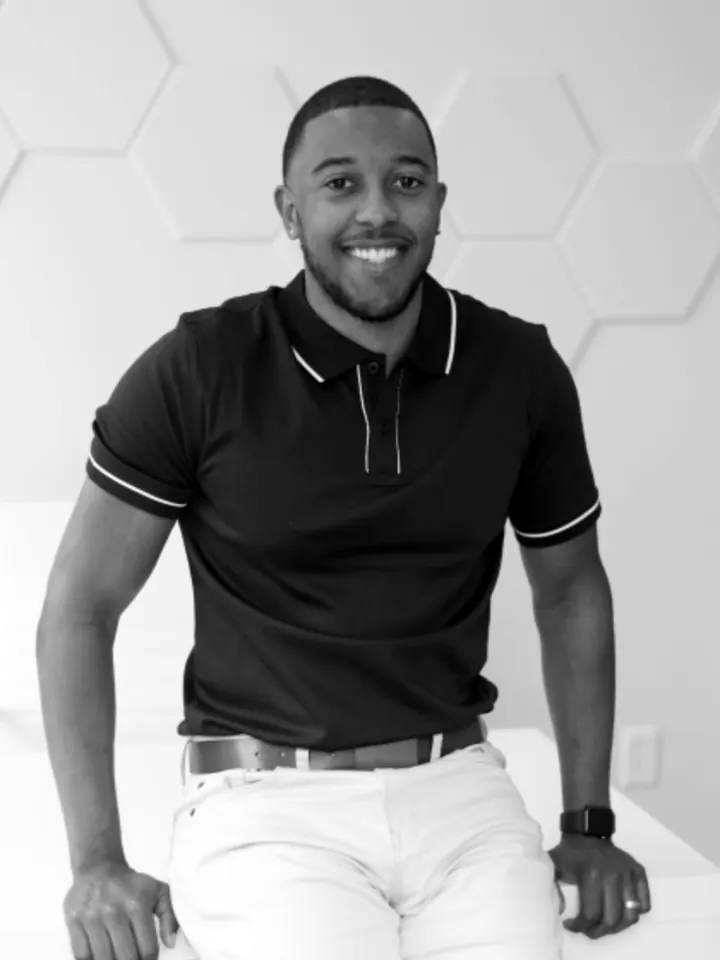
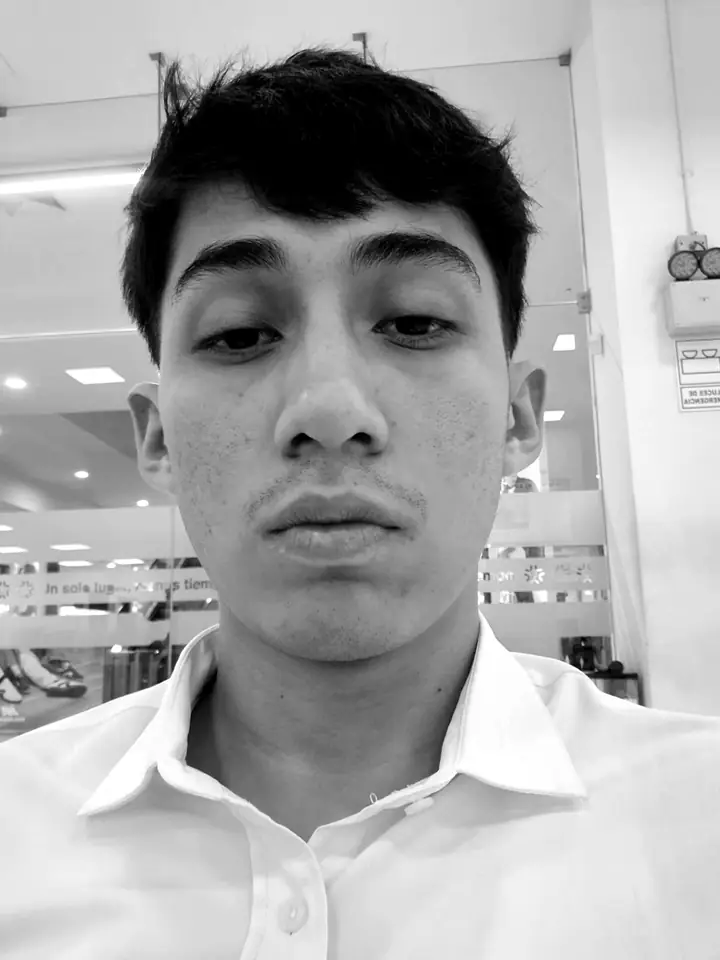
Nosotros movil: la foto real de Benjamin

diff --git a/src/components/movil/nosotros/equipo.ts b/src/components/movil/nosotros/equipo.ts
@@ -8,18 +8,18 @@ import { WHATSAPP, whatsapp } from '../datos';
    Nada inventado: ni años, ni clientes, ni cifras, ni testimonios. Lo que no
    se sabe va en null o vacio y con [CONFIRMAR].
 
-   FOTOS PROVISIONALES [CONFIRMAR]: las de public/assets/movil/nosotros/ son
-   de OTRAS personas (CC0, StockSnap y WordPress Photo Directory), puestas
-   hasta que Harley y Benjamin manden las suyas. No publicar a produccion con
-   estas caras. Autores, por si se quiere dar credito:
+   FOTOS: benjamin*.webp ya es Benjamin (foto que mando Harley el 29/10).
+   PROVISIONALES [CONFIRMAR]: harley*.webp y trabajo.webp son de OTRAS
+   personas (CC0, StockSnap y WordPress Photo Directory), puestas hasta que
+   Harley mande la suya. No publicar a produccion con esas caras. Autores,
+   por si se quiere dar credito:
      · harley*.webp — Jonas Svidras (https://step.camera);
-     · benjamin*.webp — Kristin Hardwick (https://www.kristinhardwick.com);
      · trabajo.webp — Blazej Zablotny (https://blazejzablotny.pl).
    Medidas a respetar al reemplazarlas: 540×720 (retratos del hero, se ven a
    ~132–210 px), 720×960 y ≤ 35 KB (fichas), 240×240 (avatares) y 1200×800
    (trabajo). Todas en B/N, en webp (cwebp -q 70 -m 6, desde el original). */
 
-// [CONFIRMAR] pasar a false cuando esten las fotos reales: mientras sea true,
+// [CONFIRMAR] pasar a false cuando este la foto real de Harley: mientras sea true,
 // /nosotros va con noindex (no indexar caras de otras personas con estos nombres)
 export const FOTOS_PROVISIONALES = true;
 

diff --git a/src/components/movil/nosotros/nosotros.css b/src/components/movil/nosotros/nosotros.css
@@ -600,6 +600,9 @@
     --d: 0.9s;
 }
 .nos-ficha.is-b .nos-ficha-firma {
+    /* su foto es un selfie: la cara llena el cuadro, asi que la firma baja
+       hasta la barbilla para no taparle los ojos ni la boca */
+    top: 59.5%;
     right: auto;
     left: 18px;
 }
